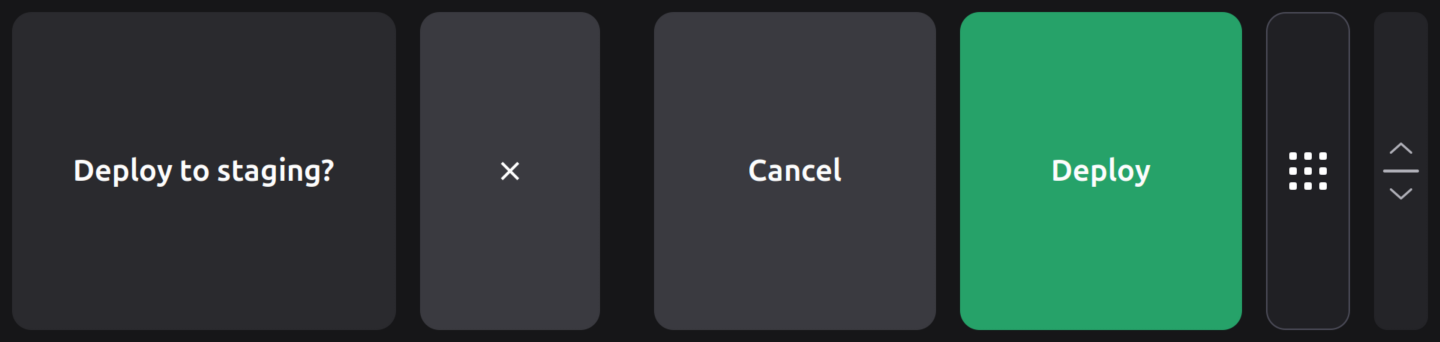
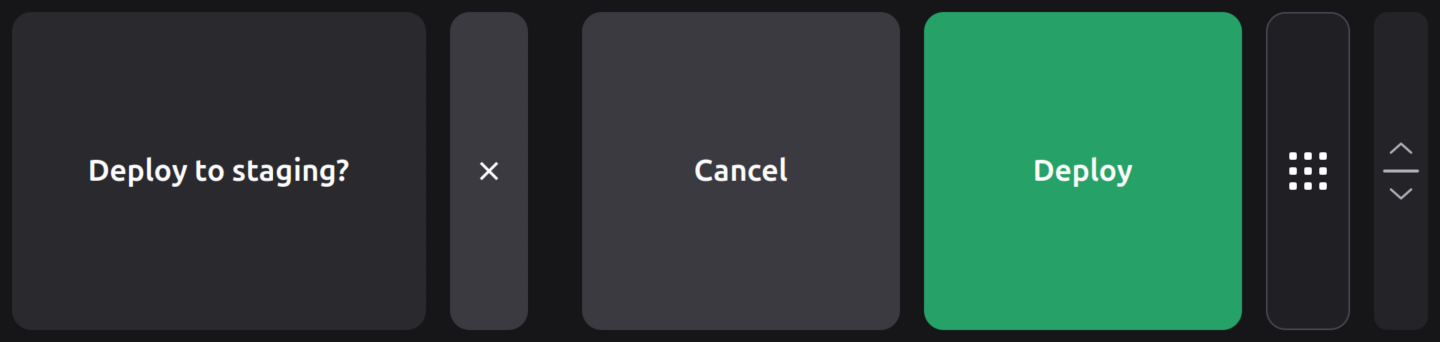
no-mistakes(review): Narrow Dismiss so answer boxes are at least square

diff --git a/gnome-shell/screenpad-touchbar@screenpad/scene.js b/gnome-shell/screenpad-touchbar@screenpad/scene.js
@@ -62,8 +62,9 @@ export function barGeometry(state, monitor) {
     const own = Math.min(Math.round((strutRows * monitor.height) / panelHeight), height);
     const narrowest = Math.min(...state.tiles.map(t => t.width)) * sx;
     const inset = Math.min(Math.round(own * INSET), Math.round(narrowest * MAX_INSET));
-    // The narrow tiles (a glyph: the grip, the page button) do not limit
-    // the icons; the page button's own icon is fitted to it (iconSizeFor).
+    // The narrow tiles (a glyph: the grip, the page button, a card's
+    // Dismiss) do not limit the icons; their own icons are fitted to them
+    // (iconSizeFor).
     const iconWidth = Math.min(...state.tiles.filter(t => !t.glyph).map(t => t.width)) * sx;
     const iconSize = Math.max(
         Math.min(Math.round(own * ICON), Math.round((iconWidth - 2 * inset) * MAX_ICON)),
@@ -120,7 +121,7 @@ export function tileClasses(tile) {
 
 // What a tile shows, in this order of preference: the grip (drawn by its
 // own code), an icon, an app's icon, or text. Any other glyph (the page
-// button) is drawn from its icon.
+// button, a card's Dismiss) is drawn from its icon.
 export function tileContent(tile) {
     if (tile.glyph === 'grip') return 'grip';
     if (tile.icon) return 'icon';

diff --git a/gnome-shell/screenpad-touchbar@screenpad/stylesheet.css b/gnome-shell/screenpad-touchbar@screenpad/stylesheet.css
@@ -115,9 +115,8 @@
     color: #2a2000;
 }
 
-/* A question: its text over the first two spots, its answers sharing the
-   last three, each lighter while a finger is on it. Both keep their
-   wrapped lines off the edges. */
+/* A question: its text, a narrow Dismiss, then its answers, each lighter
+   while a finger is on it. Both keep their wrapped lines off the edges. */
 .screenpad-touchbar-ask-text {
     background-color: #2a2a2e;
     padding: 0 16px;

diff --git a/tests/test_touchbar_scene.py b/tests/test_touchbar_scene.py
@@ -2,6 +2,7 @@
 
 No root, no hardware, no uinput. Run with: python3 -m unittest discover -s tests"""
 
+import itertools
 import unittest
 
 from touchbar_support import BAR_CONFIG, SYN, TILE_CONFIG, FakeClient, config
@@ -14,6 +15,8 @@ from screenpad_touchbar.codes import (
 from screenpad_touchbar.common import (
     APPS,
     ASK_ARM,
+    CARD_HEIGHT,
+    GROUP_GAP,
     HOME,
     PAGE_X,
     TONES,
@@ -178,21 +181,22 @@ class SceneTests(unittest.TestCase):
             {
                 "id": "ask-text",
                 "x": 0,
-                "width": 544,
+                "width": 584,
                 "style": "ask-text",
                 "title": "Run npm test?",
                 "text": "in api",
                 "badge": "+2",
             },
         )
-        # Every card can be dismissed, from the third button spot.
+        # Every card can be dismissed, from a narrow tile after its text.
         self.assertEqual(
             tiles[1],
             {
                 "id": "ask-dismiss",
-                "x": 544,
-                "width": 272,
+                "x": 584,
+                "width": 136,
                 "style": "option",
+                "glyph": "dismiss",
                 "classes": ["tone-neutral"],
                 "icon": "window-close-symbolic",
                 "icon_scale": 0.6,
@@ -203,8 +207,8 @@ class SceneTests(unittest.TestCase):
             tiles[2],
             {
                 "id": "ask-option-0",
-                "x": 856,
-                "width": 408,
+                "x": 760,
+                "width": 456,
                 "style": "option",
                 "classes": ["tone-reject"],
                 "label": "Deny",
@@ -213,28 +217,39 @@ class SceneTests(unittest.TestCase):
         self.assertEqual(tiles[3]["pressed"], True)
         self.assertTrue(ask_tiles(ask, pressed=[DISMISS])[1]["pressed"])
         self.assertEqual(
-            [ask_option_at(ask, x) for x in (0, 543, 600, 830, 856, 1200, 1263, 1264, 1671, 1672)],
-            [None, None, DISMISS, None, 0, 0, 0, 1, 1, None],
+            [ask_option_at(ask, x) for x in (0, 583, 584, 719, 720, 759, 760, 1215, 1216, 1671, 1672)],
+            [None, None, DISMISS, DISMISS, None, None, 0, 0, 1, 1, None],
         )
 
-    def test_answers_share_the_last_three_spots(self):
-        # One, two or three answers fill the spots right of Dismiss, so an
-        # answer's box is as wide as the card lets it be; the text and
-        # Dismiss stay where they are, and a touch hits what is drawn.
-        for n, width in ((1, 816), (2, 408), (3, 272)):
+    def test_answers_are_at_least_as_wide_as_the_card_is_tall(self):
+        # One or two answers get boxes as wide as the card is tall (456 px),
+        # three share what the text's one and a half spots (408 px) leave;
+        # a narrow Dismiss (half a spot) sits after the text, a group gap
+        # before the answers, which end at the page button. A touch hits
+        # what is drawn.
+        layouts = {
+            1: [(0, 1040), (1040, 136), (1216, 456)],
+            2: [(0, 584), (584, 136), (760, 456), (1216, 456)],
+            3: [(0, 410), (410, 136), (586, 362), (948, 362), (1310, 362)],
+        }
+        for n, layout in layouts.items():
             options = [{"id": "o%d" % k, "label": "O%d" % k} for k in range(n)]
             ask = parse_ask(None, {"id": "q", "title": "T", "options": options}, 0)
             tiles = ask_tiles(ask)
-            self.assertEqual(
-                [(t["x"], t["width"]) for t in tiles],
-                [(0, 544), (544, 272)] + [(856 + k * width, width) for k in range(n)],
-            )
+            self.assertEqual([(t["x"], t["width"]) for t in tiles], layout)
+            self.assertGreaterEqual(tiles[0]["width"], 408)
+            if n <= 2:
+                self.assertTrue(all(t["width"] >= CARD_HEIGHT for t in tiles[2:]), n)
+            self.assertEqual(tiles[1]["x"], tiles[0]["width"])
+            self.assertEqual(tiles[2]["x"], tiles[1]["x"] + tiles[1]["width"] + GROUP_GAP)
+            for a, b in itertools.pairwise(tiles[2:]):
+                self.assertEqual(b["x"], a["x"] + a["width"])
             self.assertEqual(tiles[-1]["x"] + tiles[-1]["width"], PAGE_X)
-            for k, tile in enumerate(tiles[2:]):
+            for k, tile in zip((DISMISS, *range(n)), tiles[1:], strict=True):
                 for x in (tile["x"], tile["x"] + tile["width"] // 2, tile["x"] + tile["width"] - 1):
                     self.assertEqual(ask_option_at(ask, x), k, (n, x))
-            self.assertIsNone(ask_option_at(ask, 855))
-            self.assertIsNone(ask_option_at(ask, PAGE_X))
+            for x in (tiles[0]["width"] - 1, tiles[2]["x"] - 1, tiles[2]["x"] - GROUP_GAP, PAGE_X):
+                self.assertIsNone(ask_option_at(ask, x), (n, x))
 
 
 class AskBarTests(unittest.TestCase):
@@ -272,10 +287,10 @@ class AskBarTests(unittest.TestCase):
         self.assertEqual((self.frames, self.launched), ([], []))
 
     def test_a_wide_answer_takes_a_touch_anywhere_on_it(self):
-        # One answer spans the three spots: a tap at either end chooses
+        # One answer's box (1216 to 1672): a touch near either end chooses
         # it, and sliding within it keeps it armed.
         self.ask(n=1)
-        self.assertTrue(self.bar.handle([("begin", 0, 870, 50)]))
+        self.assertTrue(self.bar.handle([("begin", 0, 1230, 50)]))
         self.bar.handle([("move", 0, 1650, 300)])
         self.bar.handle([("end", 0, 1650, 300)])
         self.assertEqual(self.app.last("answer"), {"op": "answer", "id": "q", "option": "o0", "reason": "chosen"})
@@ -283,9 +298,9 @@ class AskBarTests(unittest.TestCase):
     def test_too_soon_does_nothing(self):
         self.asks.add(parse_ask(self.app, {"id": "q", "title": "T", "options": [{"id": "a", "label": "A"}]}, self.now))
         self.now += ASK_ARM / 2
-        self.assertFalse(self.bar.handle([("begin", 0, 1000, 50)]))
+        self.assertFalse(self.bar.handle([("begin", 0, 1300, 50)]))
         self.now += 1
-        self.bar.handle([("end", 0, 1000, 50)])
+        self.bar.handle([("end", 0, 1300, 50)])
         self.assertIsNone(self.app.last("answer"))
         self.assertIsNotNone(self.asks.shown())
 

diff --git a/screenpad_touchbar/scene.py b/screenpad_touchbar/scene.py
@@ -1,6 +1,19 @@
 """The scene in touchbar.json: the tiles the extension draws, for the spots and for a question."""
 
-from .common import APP, GRIP, PAGE, PAGE_ICONS, PAGE_ITEM, PAGE_LABELS, PAGE_X, SHORTCUTS_X, SPOT_W, TILE, TONES
+from .common import (
+    APP,
+    CARD_HEIGHT,
+    GRIP,
+    GROUP_GAP,
+    PAGE,
+    PAGE_ICONS,
+    PAGE_ITEM,
+    PAGE_LABELS,
+    PAGE_X,
+    SPOT_W,
+    TILE,
+    TONES,
+)
 
 # What touchbar.json shows the extension: tiles, each a rectangle in the bar
 # (x and width in panel pixels, as tall as the bar) and what to draw in it.
@@ -10,8 +23,9 @@ from .common import APP, GRIP, PAGE, PAGE_ICONS, PAGE_ITEM, PAGE_LABELS, PAGE_X,
 # Every tile has "id", "x", "width" and "style" (its CSS class is
 # screenpad-touchbar-<style>). It may have "classes" (more CSS classes),
 # "pressed", "glyph" (a narrow tile, which does not limit the other tiles'
-# icon size: "grip", drawn by the extension's own code, or "page", the
-# page button, drawn as its icon fitted to the tile), "icon" (an icon name
+# icon size: "grip", drawn by the extension's own code, "page", the page
+# button, or "dismiss", a card's Dismiss, both drawn as their icon fitted
+# to the tile), "icon" (an icon name
 # or an image path) and "icon_scale", "app" (a desktop file id,
 # drawn as that app's icon; the extension opens only apps shown this way),
 # "label", "title" and "text" (text lines), "badge" (a short text in a
@@ -29,13 +43,15 @@ TILE_STYLES = ("button", "shortcut", "grip", "page", "ask-text", "option")
 TILE_CLASSES = ("hold", "tap", "empty", "removing", "tile", "offline", "moving", "target") + tuple(
     "tone-" + tone for tone in TONES
 )
-# A question (an attention card): its title and text over the first two
-# spots, Dismiss in the third, and its answers sharing the last three
-# equally (one answer takes all three, two take one and a half each), so
-# an answer's box is as wide as the card lets it be. The page button and
+# A question (an attention card): its title and text, a narrow Dismiss,
+# then its answers up to the page button, GROUP_GAP after Dismiss. The text
+# and the answers share the rest: an answer is as wide as the card is tall
+# while the text keeps at least one and a half spots (one or two answers),
+# else (three) the answers share what the text leaves. The page button and
 # the grip stay.
-ASK_TEXT_W = DISMISS_X = 2 * SPOT_W
-ANSWERS_W = PAGE_X - SHORTCUTS_X
+DISMISS_W = SPOT_W // 2
+ASK_TEXT_MIN = 3 * SPOT_W // 2
+ASK_SPACE = PAGE_X - DISMISS_W - GROUP_GAP
 DISMISS = "dismiss"
 
 
@@ -102,12 +118,22 @@ def spot_tiles(config, pressed=(), removing=(), provided=None, page_to=None, pag
     return tiles
 
 
+def ask_answer_width(ask):
+    """The width of each of a question's answers."""
+    return min(CARD_HEIGHT, (ASK_SPACE - ASK_TEXT_MIN) // len(ask.options))
+
+
+def ask_text_width(ask):
+    """The width of a question's text tile, at the left of the bar."""
+    return ASK_SPACE - len(ask.options) * ask_answer_width(ask)
+
+
 def ask_option_box(ask, option):
     """Where an answer's tile (an index, or DISMISS) is: its x and width."""
     if option == DISMISS:
-        return DISMISS_X, SPOT_W
-    width = ANSWERS_W // len(ask.options)
-    return SHORTCUTS_X + option * width, width
+        return ask_text_width(ask), DISMISS_W
+    width = ask_answer_width(ask)
+    return ask_text_width(ask) + DISMISS_W + GROUP_GAP + option * width, width
 
 
 def ask_option_at(ask, px):
@@ -121,16 +147,18 @@ def ask_option_at(ask, px):
 
 def ask_tiles(ask, pressed=(), queued=0):
     """The tiles of a question: its text, Dismiss, then one tile per answer."""
-    text = {"id": "ask-text", "x": 0, "width": ASK_TEXT_W, "style": "ask-text", "title": ask.title}
+    text = {"id": "ask-text", "x": 0, "width": ask_text_width(ask), "style": "ask-text", "title": ask.title}
     if ask.text:
         text["text"] = ask.text
     if queued:
         text["badge"] = "+%d" % queued
+    x, width = ask_option_box(ask, DISMISS)
     dismiss = {
         "id": "ask-dismiss",
-        "x": DISMISS_X,
-        "width": SPOT_W,
+        "x": x,
+        "width": width,
         "style": "option",
+        "glyph": DISMISS,
         "classes": ["tone-neutral"],
         "icon": "window-close-symbolic",
         "icon_scale": 0.6,

diff --git a/tests/test_touchbar_extension_cards.py b/tests/test_touchbar_extension_cards.py
@@ -14,11 +14,11 @@ from touchbar_support import CONFIG, FakeClient, config, js
 
 from screenpad_touchbar.apps import Apps
 from screenpad_touchbar.bar import Bar
-from screenpad_touchbar.common import ASK_ARM, MAX_OPTIONS, SHORTCUTS_X, SPOT_W, TILE_NAME, URGENCIES
+from screenpad_touchbar.common import ASK_ARM, MAX_OPTIONS, TILE_NAME, URGENCIES
 from screenpad_touchbar.config import NotifyPolicy
 from screenpad_touchbar.keys import KeyEmitter
 from screenpad_touchbar.notify import mirror_refusal, parse_notify
-from screenpad_touchbar.scene import DISMISS_X
+from screenpad_touchbar.scene import DISMISS, ask_option_box
 
 # What GNOME says of a calendar notification, as notifications.js passes it.
 CALENDAR = {
@@ -123,7 +123,11 @@ class AnswerTests(unittest.TestCase):
         self.apps.handle(self.ext, notify)
         self.now += ASK_ARM
 
-    def tap(self, x):
+    def tap(self, option):
+        """The answer the extension gets for a tap at the middle of an
+        option's tile (an index, or DISMISS) on the shown card."""
+        x, width = ask_option_box(self.apps.asks.shown(), option)
+        x += width // 2
         self.bar.handle([("begin", 0, x, 300), ("end", 0, x, 300)])
         [answer] = [m for m in self.ext.sent if m["op"] == "answer"]
         return answer
@@ -147,17 +151,17 @@ class AnswerTests(unittest.TestCase):
         for k in range(MAX_OPTIONS):
             with self.subTest(k=k):
                 self.setUp()
-                answer = self.tap(SHORTCUTS_X + k * SPOT_W + SPOT_W // 2)
+                answer = self.tap(k)
                 self.assertEqual(answer["option"], "action-%d" % k)
                 self.assertEqual(self.press(answer), k)
 
     def test_a_replaced_button_is_never_pressed(self):
-        answer = self.tap(SHORTCUTS_X + SPOT_W // 2)
+        answer = self.tap(0)
         self.assertEqual(self.press(answer, keep=False), None)
         self.assertEqual(self.press(dict(answer, option="action-1"), keep=False), 1)
 
     def test_dismiss_and_timeout_press_nothing(self):
-        dismissed = self.tap(DISMISS_X + SPOT_W // 2)
+        dismissed = self.tap(DISMISS)
         self.assertEqual((dismissed["option"], dismissed["reason"]), (None, "dismissed"))
         self.assertIsNone(self.press(dismissed))
         for reason in ("timeout", "cancelled", "unavailable"):

diff --git a/tests/test_touchbar_cards.py b/tests/test_touchbar_cards.py
@@ -243,9 +243,9 @@ class DaemonCardTests(unittest.TestCase):
             with open(state_path()) as f:
                 state = json.load(f)
             self.assertEqual((state["height"], state["strut"], state["tiles"][0]["id"]), (456, 160, "ask-text"))
-            # After ASK_ARM, a tap in the new area answers; the pad sees nothing.
+            # After ASK_ARM, a tap on the answer (panel x 1400) answers; the pad sees nothing.
             now[0] += ASK_ARM
-            for groups in (touch(1, 2, 2000, 600), lift(1)):
+            for groups in (touch(1, 2, 2800, 600), lift(1)):
                 out = None
                 for ev in groups + [(EV_SYN, SYN_REPORT, 0)]:
                     out = sp.feed(*ev)

diff --git a/docs/development.md b/docs/development.md
@@ -108,10 +108,10 @@ The touch bar tests cover:
 - config writing (`test_touchbar_edit.py`): the height line, and an app's block added after the last item, before an item with its comments above it, on the apps page and in a place with no items yet, removed and moved (keeping its label), any label written safely, every other line kept, no blank lines piling up, refusing to add, move or remove any other kind of item; any item's block moved between `[[bar]]` and `[[apps]]` as it is (its comment above it staying), two items swapped and back, one item in two places refused; refusing an edit that would change anything else (a header inside a string, an inline array) and leaving a broken file alone; adding an app at a spot, at the end, on a full bar (only over an app) and moving one already there; the `shortcut` command on the bar and, with `--apps`, the apps page;
 - migration (`test_touchbar_migrate.py`): every earlier default replaced when untouched, the last two edited ones becoming the current default with the same edit, the earlier ones' buttons becoming items, a config of the version before items (Push to talk, two apps' tiles, two shortcuts) becoming the same five `[[bar]]` items with each block's comments kept, shortcuts written before buttons moved after them, `x` and `width` dropped, what cannot be converted left alone, a push-to-talk key the user chose kept, and the `tile` lines added once;
 - the bar: hold and tap items (combo press and release order, modifiers shared between two held items, tap cancelled by sliding away, commands), an app's tap to open, long press then lift to remove, slide away to cancel, the grip's live height (steps, limits, one finger only) saved on lift, and a held key staying held through a config reload;
-- the scene: the spots as tiles (geometry, classes, pressed and removing), any item in any spot (an app, a page, a command, a tile, a key, an empty spot), drops only on an app or an empty spot, app tiles and pages online and offline, a question's tiles (its answers sharing the last three spots, one to three, a touch hitting what is drawn), and every style and class having a rule in the stylesheet;
+- the scene: the spots as tiles (geometry, classes, pressed and removing), any item in any spot (an app, a page, a command, a tile, a key, an empty spot), drops only on an app or an empty spot, app tiles and pages online and offline, a question's tiles (the text, a narrow Dismiss and one to three answers up to the page button, at least as wide as the card is tall for one or two, the text at least one and a half spots, a touch hitting what is drawn), and every style and class having a rule in the stylesheet;
 - items everywhere (`test_touchbar_items.py`), through the daemon: the apps page's items listed before the pages no item places, the list growing a third row past eight, a tile or page nobody provides inert; an app opened, a hold key down while the finger is (clicking as it goes down) and let go on a slide away or when the surface lets go, a tap key, a command, an app's tile getting `down` and `up`, a page item opening its page; and a page item on the bar opening the apps page on its page, dimmed and doing nothing without the page or the pages;
 - moving items (`test_touchbar_moves.py`), through the daemon: a bar item lifted on a free place of the home list going to its end at once with one click and opening nothing (its block moved, the comments kept), and back to the bar's first empty spot; what a drag marks (`moving`, `target`, the header's text); a lift on an item asking first (an app named by its desktop file), Cancel, Dismiss, the timeout and an unavailable card changing nothing, Replace swapping the two; a full bar and a full list (its last item) asking; no move lifted back in its own place, on the header, on an app's page, on the touchpad page, for an app the other place has, under a card, on an item that changed within 0.3 s, or after the config reloaded under the drag or changed before the answer; a held key down from the touch to the lift, and a tile no app provides moving;
-- questions in the bar: lifting on an answer chooses it (anywhere on one answer as wide as three spots), the 0.3 s arming, sliding away, the text and a held button doing nothing, the grip still working, an answer whose question went away, and the queue;
+- questions in the bar: lifting on an answer chooses it (anywhere on a single answer's box), the 0.3 s arming, sliding away, the text and a held button doing nothing, the grip still working, an answer whose question went away, and the queue;
 - apps: `hello`, `set`, `ask` and `cancel` with their validation, events only to a tile's owner, answers (`chosen`, `timeout`, `unavailable`, `cancelled`), an app disconnecting, and too many apps; the socket itself (mode `0600`, bad JSON, a too long line, a stale or a live socket file), the `ask` command against a served socket, and device contacts through the splitter and the bar to an app, end to end;
 - attention cards: the bar growing for a question and shrinking after an answer, a dismiss or a timeout; waiting for a touchpad finger to leave the band it would cover (at most 0.3 s); the 0.3 s arming counted from the growth; a queue staying grown and arming each card anew; a taller bar not growing; the grip and a held button through the growth; the splitter with the height changing under contacts down (they keep their kind, new ones take the new height, the clone gets full device coordinates); the daemon's own band check and its published `height` and `strut`;
 - the pages: the swipe along the bar accepted at its limits (25 mm, half as steep, 0.4 s) and refused when short, slow, too steep, vertical, in the direction with no page, with a second finger on the bar, cancelled, or with the pages not drawn; a swipe's lift doing nothing on the spot it started on (the grip not saved); page button taps, sliding away, the page button beside a card, and no page button while the pages are not drawn; through the daemon's routing, frame by frame: a sideways stroke below the bar staying a pointer move, a bar swipe moving no pointer, contacts already down keeping their kind across a page turn both ways, the apps page sending nothing to the virtual touchpad (contacts, moves, palms, a click), the return after 8 s without a touch (held by a finger down, counted from the last lift) and when the page can no longer show, letting go; what the daemon publishes (`page`, `screensaver`, `surface`, the page button with the icon of the page it goes to, none in the version 1 spots), the pages needing renderer protocol 3 while questions need 2; `[screensaver]` and `[pager]`, their errors, `check`, an app edit keeping them, and migrating the default before the pages and the one with the page dots;

diff --git a/.agents/skills/touchbar/SKILL.md b/.agents/skills/touchbar/SKILL.md
@@ -33,7 +33,7 @@ Read first:
 - **Changing the default config (`EXAMPLE_CONFIG`) needs a migration** (`migrate.py`): add the sha256 of the default being replaced to `OLD_DEFAULTS`, save that default as `tests/touchbar-v<N>-default.toml`, and add a migration test in `test_touchbar_migrate.py`. A default block that changed goes in `OLD_BLOCKS` (old text, new text), so an edited config gets the new block and keeps the rest; `convert_items` then turns an earlier version's `[[button]]` and `[[shortcut]]` blocks into `[[bar]]` items, only when the result parses to the same bar. Users' configs are never otherwise rewritten.
 - **The scene is drawn without knowing tile kinds**: `touchbar.json` (`SCENE_VERSION`) is a list of tiles with geometry, what to draw, CSS classes and `pressed`. A new kind of tile is daemon-only work, but every `style` and class it uses needs a rule in the extension's `stylesheet.css` (tested).
 - **The renderer handshake must match the extension**: `RENDERER_NAME`, `RENDERER_PROTOCOL`, `SOCKET_NAME`, the D-Bus `Launch` interface (all in `common.py`), the notify fields, urgency names, action ids and the notifications app name are mirrored in the extension's `contract.js` and `cards.js`. Bump `RENDERER_PROTOCOL` on both sides when an older extension would misdraw the scene, and gate the new feature on that protocol (as `ASKS_PROTOCOL`, `PAGES_PROTOCOL` and `WIDGETS_PROTOCOL` do), so what an older extension can draw keeps working.
-- **Questions show only while they can be seen**: an ask is shown only while the touchpad is grabbed and `renderer.json` says the bar is drawn; otherwise the asker gets `unavailable`. A touch that starts within `ASK_ARM` (0.3 s) of a card growing does nothing, and the extension's growth animation is shorter than that. A card's tiles and its hit testing share one geometry, `ask_option_box` in `scene.py` (the answers share the last three spots), so a touch hits what is drawn.
+- **Questions show only while they can be seen**: an ask is shown only while the touchpad is grabbed and `renderer.json` says the bar is drawn; otherwise the asker gets `unavailable`. A touch that starts within `ASK_ARM` (0.3 s) of a card growing does nothing, and the extension's growth animation is shorter than that. A card's tiles and its hit testing share one geometry, `ask_option_box` in `scene.py` (the text, a narrow Dismiss, then the answers up to the page button, at least as wide as the card is tall for one or two), so a touch hits what is drawn.
 - **The app protocol is versioned** (`APP_PROTOCOL`, `MIN_APP_PROTOCOL` in `common.py`; `protocol_field` in `protocol.py`): a `hello` without `protocol` is version 1, every version from `MIN_APP_PROTOCOL` to `APP_PROTOCOL` is welcome, any other is the typed `unsupported-protocol` error. Bump `APP_PROTOCOL` when an app could otherwise not tell the bar lacks what it relies on (a new op or field apps send, a changed meaning), add the row to the version table in [docs/app-api.md](../../../docs/app-api.md#the-protocol-version), and keep the older versions working; a new field in what the daemon sends needs no bump. `screenpad_app.PROTOCOL` and its limits follow the daemon's (`test_the_library_speaks_what_the_daemon_does`).
 - **The client library stays a library**: standard library only, Python 3.11+, and it imports nothing of `screenpad_touchbar` (`test_the_library_imports_nothing_of_the_daemon`); its tests run it against the daemon's own `AppServer`, so a change to `hello` or `welcome` on either side shows there.
 - **A protocol change updates [docs/app-api.md](../../../docs/app-api.md)** and the app tests: ops, fields, limits (`MAX_APPS`, `MAX_LINE`, `MAX_OPTIONS`, `MAX_PAGES`, the home page's `HOME_COLUMNS * HOME_ROWS` pages in all, `MAX_WIDGETS`, the grid, timeouts), events and answer reasons.

diff --git a/docs/app-api.md b/docs/app-api.md
@@ -8,7 +8,7 @@ $XDG_RUNTIME_DIR/screenpad/touchbar.sock
 
 The directory is your user's own and the socket is mode `0600`; the daemon also checks that the connecting process runs as the same user. There is no other authentication: any program you run can use the bar.
 
-![A question in the touch bar, grown into a card: its text over the first two spots, a Dismiss cross in the third, Cancel and Deploy in the last three, the page button and the grip at the right end](images/touchbar-ask.png)
+![A question in the touch bar, grown into a card: its text, a narrow Dismiss cross, then Cancel and Deploy as boxes at least as wide as tall, the page button and the grip at the right end](images/touchbar-ask.png)
 
 *A question, as `screenpad-touchbar ask` below shows it: the bar grows into a card for it. Rendered by the extension in a headless GNOME Shell 50.1.*
 
@@ -33,7 +33,7 @@ It shows the question in the bar until you tap an answer, dismiss it or the time
 
 - **The bar grows into a card** for it: 456 px tall (about 29 mm, which leaves about 39 mm of touchpad below), or the bar's own height if that is taller. The growth is animated. It shrinks back once the question is answered, dismissed or timed out, or goes on to the next question.
 - **It grows only when no touchpad finger is in the band it is about to cover**, so it never draws a card under a finger moving the pointer. If one is there, it waits for it to leave, at most 0.3 s, then grows anyway. Either way the touchpad finger stays a touchpad finger to the end of its stroke; only new touches in that band are the card's.
-- The card covers the bar's six spots: the title and text over the first two, a **Dismiss** cross in the third, and the answers left to right in the last three, which they share equally: one answer takes all three, two take one and a half each, three one each. On the card, the title, the text and each answer's label wrap at word boundaries onto more lines instead of being cut, so keep them short enough to fit the box (the limits below). The page button stays and still turns the page, and the grip stays and still resizes the bar (its own height, which shows again when the card goes). A card shows the same way on both [pages](touchbar.md#the-two-pages).
+- The card covers the bar's six spots: the title and text on the left, a narrow **Dismiss** cross after them, then the answers left to right up to the page button. One or two answers get boxes at least as wide as the card is tall, the text keeping the rest; three share what the text's one and a half spots leave. On the card, the title, the text and each answer's label wrap at word boundaries onto more lines instead of being cut, so keep them short enough to fit the box (the limits below). The page button stays and still turns the page, and the grip stays and still resizes the bar (its own height, which shows again when the card goes). A card shows the same way on both [pages](touchbar.md#the-two-pages).
 - Tap an answer and lift on it (or within 60 px of it, as for tap buttons) to choose it. Sliding away before lifting cancels the tap. A touch on the text does nothing. Dismiss closes the card with no answer (`dismissed`).
 - **A touch that starts within 0.3 s of the card appearing does nothing**, counted from when the bar grew, so a tap already on its way to a button, or to where the touchpad was, cannot land on an answer.
 - A touch keeps what it started on: a push-to-talk button held when a question appears stays held until you lift, and a finger on an answer when its question goes away (answered elsewhere, timed out) chooses nothing.

diff --git a/docs/touchbar.md b/docs/touchbar.md
@@ -28,7 +28,7 @@ Left to right, each spot 272 px (17 mm) wide:
 
 **Adding an app.** Drag an app icon from the dock or from the app grid (Super, then Show Apps) onto the bar on the ScreenPad, with the pointer. The target spot lights up blue. Drop it on an app to put it in that spot, moving that app and the items after it one spot along (on a full bar, it replaces that app); drop it anywhere else on the bar, on another kind of item or on an empty spot, to take the first empty spot. Other kinds of items are never replaced or removed this way, since they are yours to change in the config. An app already on the bar moves. It works for anything GNOME shows as an app icon. Files dragged from the file manager are not apps and are not taken. The same is possible from a terminal: `screenpad-touchbar shortcut list`, `screenpad-touchbar shortcut add org.gnome.Nautilus [--spot 2]` and `screenpad-touchbar shortcut remove 2`; with `--apps`, they act on the apps page's items. Items of every kind also move between the bar and the apps page with a finger ([moving items](#moving-items-between-the-bar-and-the-apps-page)).
 
-**Cards: questions and notifications.** A program can ask you a question with up to three answers, for example `screenpad-touchbar ask "Deploy to staging?" --option no=Cancel --option yes=Deploy`. GNOME notifications that have buttons, or are urgent, show the same way, with the notification's own buttons. The bar grows into a card for it, about 29 mm tall, covering the six spots: the question over the first two, a Dismiss cross in the third, and the answers sharing the last three, so one or two answers get boxes wider than they are tall. A long question or answer wraps onto more lines instead of being cut. The page button and the grip stay. It shrinks back when you tap an answer, dismiss it, or it times out. The touchpad below stays a touchpad, about 39 mm tall while the card shows. A touch that starts within 0.3 s of the card appearing does nothing, so a tap already on its way lands on nothing, and the bar does not grow under a finger moving the pointer. See the [app API](app-api.md) and, for which notifications show, [configuration](configuration.md#notifications).
+**Cards: questions and notifications.** A program can ask you a question with up to three answers, for example `screenpad-touchbar ask "Deploy to staging?" --option no=Cancel --option yes=Deploy`. GNOME notifications that have buttons, or are urgent, show the same way, with the notification's own buttons. The bar grows into a card for it, about 29 mm tall, covering the six spots: the question on the left, a narrow Dismiss cross, then the answers up to the page button, so one or two answers get boxes at least as wide as they are tall (three get as wide as the question leaves room for). A long question or answer wraps onto more lines instead of being cut. The page button and the grip stay. It shrinks back when you tap an answer, dismiss it, or it times out. The touchpad below stays a touchpad, about 39 mm tall while the card shows. A touch that starts within 0.3 s of the card appearing does nothing, so a tap already on its way lands on nothing, and the bar does not grow under a finger moving the pointer. See the [app API](app-api.md) and, for which notifications show, [configuration](configuration.md#notifications).
 
 ![A question in the touch bar, grown into a card: Deploy to staging?, Dismiss, Cancel and Deploy](images/touchbar-ask.png)
 
